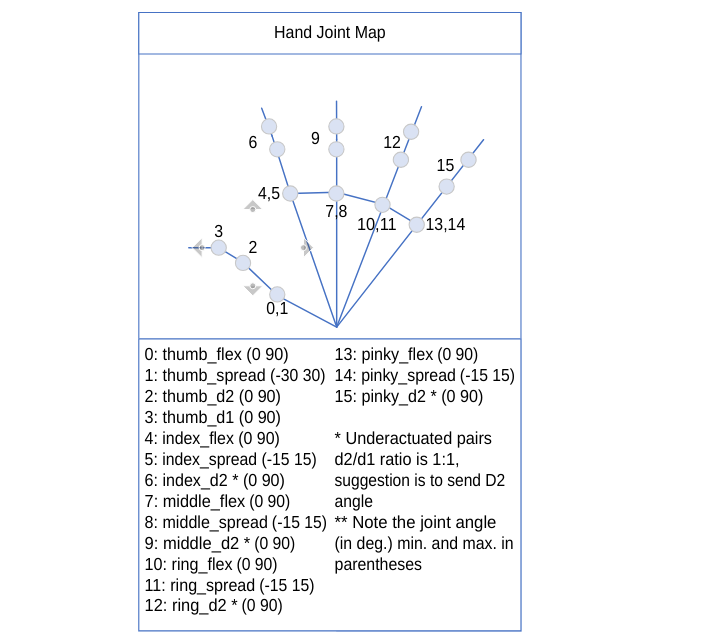
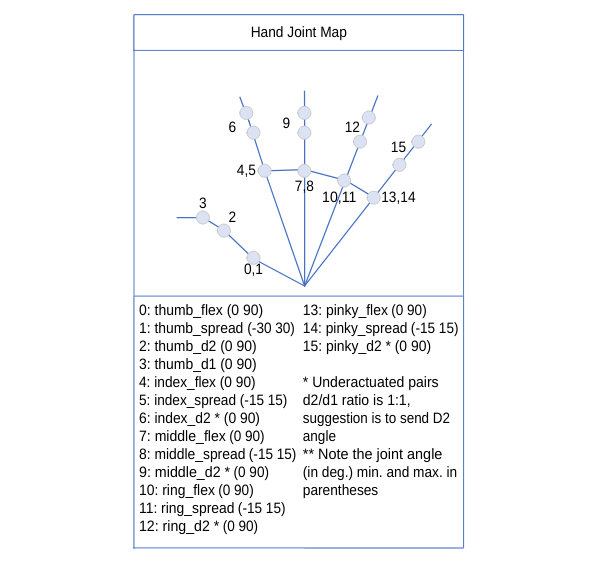
formatting updates

Changed region(s): [[0.1854, 0.0, 0.7724, 1.0]]

diff --git a/README.md b/README.md
@@ -102,8 +102,14 @@ Enter command:
 ```
 The first thing to do is to start the connection to the hand by pressing "1". Next, you want to send the start robot command "2". Next to send a command, you can edit the `example_command.txt` file in the artus_3d_api/grasp_patterns folder. 
 
-*To Note when editing the grasps files:*\
-`c176p[+00,+00,+00,+00,+00,+00,+00,+00,+00,+00,+00,+00,+00,+00,+00,+00]v[+90,+90,+90,+90,+90,+90,+90,+90,+90,+90,+90,+90,+90,+90,+90,+90]end`\
+*Note when editing the grasps files:*\
+`c176p[+00,+00,+00,+00,+00,+00,+00,+00,+00,+00,+00,+00,+00,+00,+00,+00]v[+90,+90,+90,+90,+90,+90,+90,+90,+90,+90,+90,+90,+90,+90,+90,+90]end`
+
+The first array[] of 16 elements is the input angle in degrees mapped to the joints as shown in the hand joint map, and the second array[] of 16 elements is the input speed in percentage mapped to the joints as shown in the hand joint map.
+
+e.g. to set the `thumb_flex` to 45 degrees which is associated with index 0, you would change the first element in the first array so that the new command would be:\
+`c176p[+45,+00,+00,+00,+00,+00,+00,+00,+00,+00,+00,+00,+00,+00,+00,+00]v[+90,+90,+90,+90,+90,+90,+90,+90,+90,+90,+90,+90,+90,+90,+90,+90]end`
+
 To edit the command there are a few things that need to be accounted for:
 * each element in the array has 3 characters and must follow this convention
     * examples of allowable angles `+06` or `+90` or `-10` as these are all 3 characters long
@@ -112,7 +118,7 @@ To edit the command there are a few things that need to be accounted for:
 
 ## Implementation Examples
 Below are some examples of how you can implement these functions in your code that are not covered by the `example.py` script.\
-### Setting input values:\
+### Setting input values:
 *Name accessible :*
 ```python
 artus3d.joints['thumb_flex'].input_angle = 45
@@ -127,14 +133,14 @@ for joint,joint_info in artus3d.joints.items():
     joint_info.input_angle = input_angles_from_control[joint_info.index]
 ```
 
-### Getting feedback values:\
+### Getting feedback values:
 In the same way as setting input values, we can access feedback data after calling `artus3d.get_robot_states()` by name.\
 *Name accessible :*
 ```python
 artus3d.joints['thumb_flex'].feedback_angle
 ```
 
-### Controlling multiple hands:\
+### Controlling multiple hands:
 We can define two instances of hands with different `port` and `target_ssid`. In theory, it can spin up an unlimited amount of hands, bottlenecked by the amount of wifi controllers and COM ports associated with the machine. e.g.
 ```python
 artus3dLeft = Artus3DAPI(target_ssid='Artus3DLH',port='/dev/ttyUSB0',communication_method='UART')
